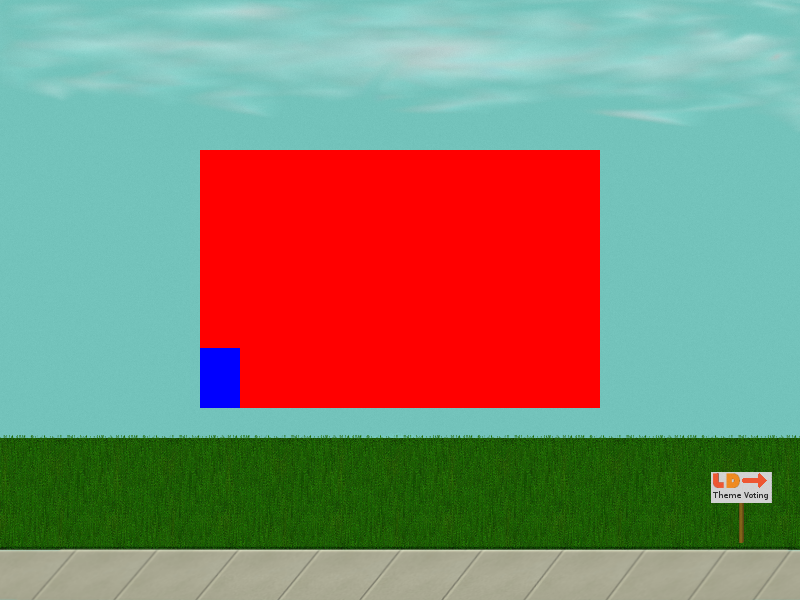
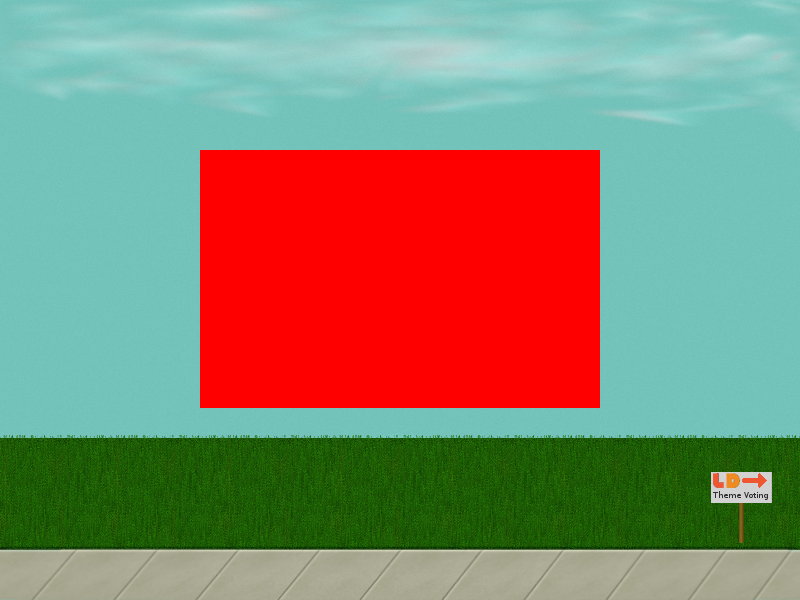
based dude movement

Changed region(s): [[0.25, 0.57, 0.3125, 0.69]]

diff --git a/js/game.js b/js/game.js
@@ -70,8 +70,24 @@ var room = {
     h: canvas.width / 2 * 0.645,
     x: canvas.width / 4,
     y: canvas.height / 4,
+
     ready: false
 };
+
+var dude = {
+    w: canvas.width * 0.05,
+    h: canvas.width * 0.075,
+    x: 0,
+    y: canvas.height - canvas.width * 0.075,
+
+    dragging: false,
+    ready: false
+};
+dude.img = new Image();
+dude.img.onload = function() {
+    dude.ready = true;
+}
+dude.img.src = "img/dude.png";
 
 /* useful functions */
 var pointOver = function(p, a) {
@@ -89,6 +105,8 @@ canvas.addEventListener('mouseup', function(evt) {
 var render = function() {
     if (bg.ready)
         ctx.drawImage(bg.img, bg.x, bg.y, bg.w, bg.h);
+    if (dude.ready)
+        ctx.drawImage(dude.img, dude.x, dude.y, dude.w, dude.h);
 };
 
 /* main game loop */
@@ -109,3 +127,8 @@ requestAnimationFrame =
 render();
 requestAnimationFrame(main);
 main();
+
+setInterval(function() {
+    if(!dude.dragging && dude.x <= bg.w)
+        dude.x += 5;
+}, 10);
